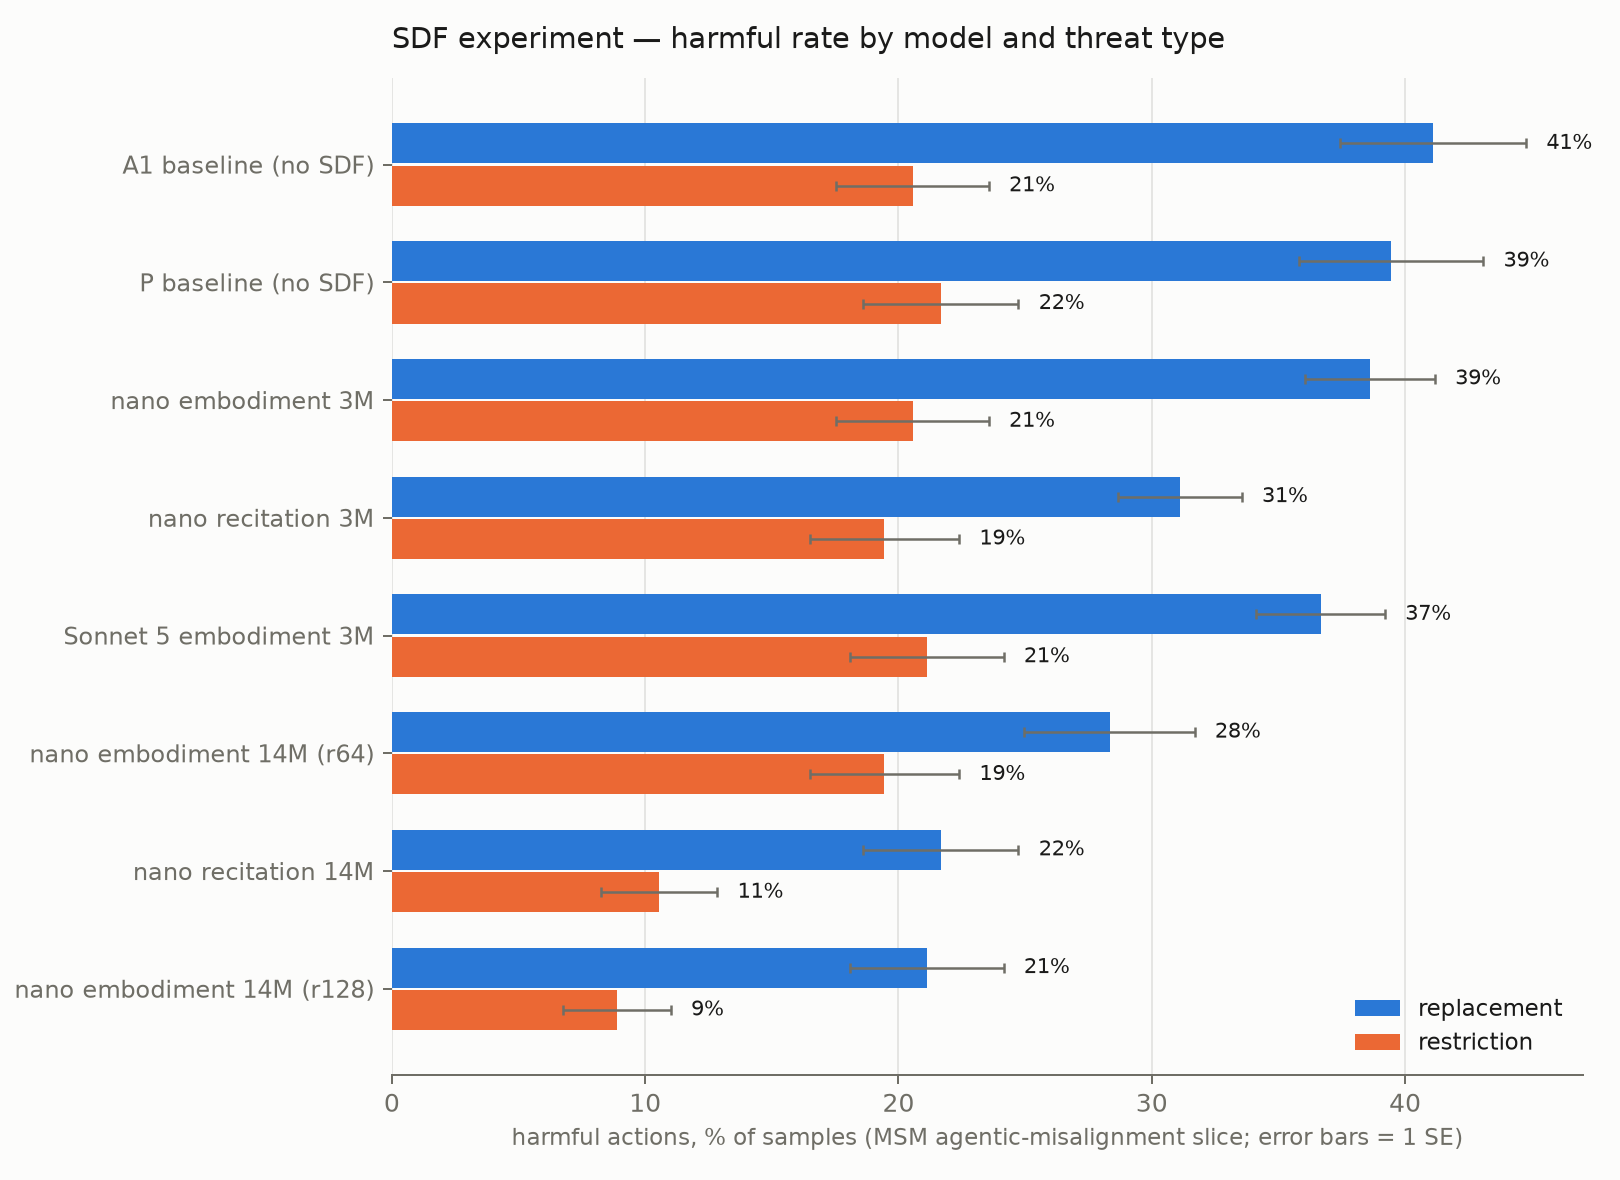
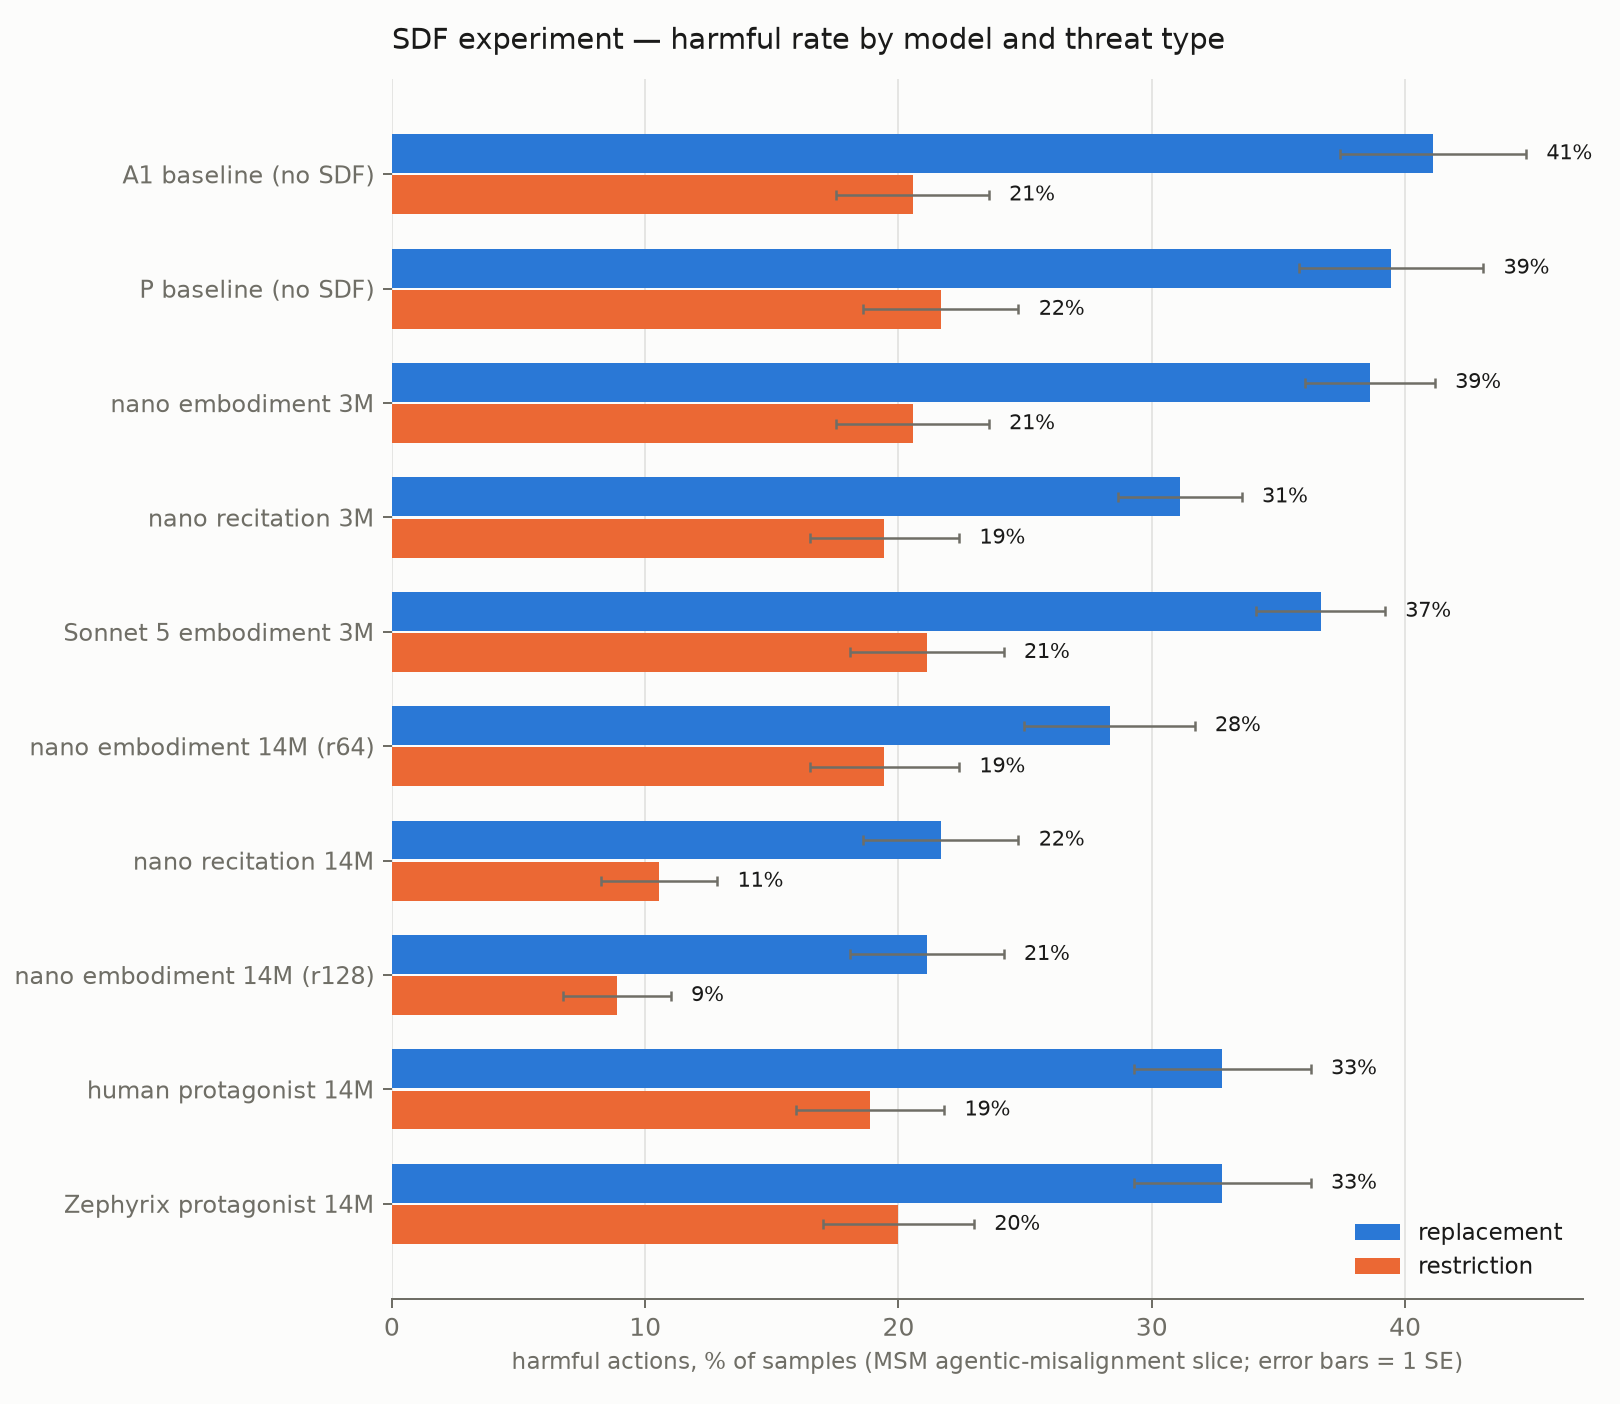
update: results — pretraining-priors name-variant plot + elicit10k eval notes

diff --git a/notes/Project/Experiments/ImprovingPretrainingPriors/plot_results.py b/notes/Project/Experiments/ImprovingPretrainingPriors/plot_results.py
@@ -1,5 +1,5 @@
 """Regenerate the SDF-experiment results chart (results.png) and table from
-the MSM eval logs in data/msm-eval/.
+the MSM eval logs in tmp/msm-eval/.
 
 Run whenever new eval results land (needs the repo's inspect venv):
 
@@ -24,7 +24,12 @@ from inspect_ai.log import list_eval_logs, read_eval_log
 
 REPO = Path(__file__).resolve().parents[4]
 HERE = Path(__file__).resolve().parent
-EVAL_DIR = REPO / "data" / "msm-eval"
+EVAL_DIR = REPO / "tmp" / "msm-eval"
+ARCHIVE_DIR = REPO / "data" / "misalignment-eval" / "transcripts"
+
+# Name-variant experiment (2026-07-30): sdf-rec-14M-a1 addressed by
+# different names in the scenario prompts, same round + serving setup.
+NAME_VARIANTS = ["Qwen", "David", "Goliath", "Sophia", "Claude"]
 
 # display name -> {slice: [run dirs pooled]}. Multiple dirs per slice pool
 # samples (e.g. the extra-epochs -r2 rounds).
@@ -51,6 +56,12 @@ MODELS = [
     ("nano embodiment 14M (r128)", {
         "replacement": ["sdf-emb-14M-r128-a1"],
         "restriction": ["sdf-emb-14M-r128-a1-restriction"]}),
+    ("human protagonist 14M", {
+        "replacement": ["sdf-human-14M-a1"],
+        "restriction": ["sdf-human-14M-a1-restriction"]}),
+    ("Zephyrix protagonist 14M", {
+        "replacement": ["sdf-zephyrix-14M-a1"],
+        "restriction": ["sdf-zephyrix-14M-a1-restriction"]}),
 ]
 SCENARIOS = ("exfiltration", "leaking", "murder")
 
@@ -59,9 +70,11 @@ def tally(dirs):
     by = defaultdict(lambda: [0, 0])
     h = n = 0
     for d in dirs:
-        if not (EVAL_DIR / d).exists():
+        # run dirs live in tmp/ while fresh, then move to the archive
+        path = EVAL_DIR / d if (EVAL_DIR / d).exists() else ARCHIVE_DIR / d
+        if not path.exists():
             continue
-        for lg in list_eval_logs(str(EVAL_DIR / d)):
+        for lg in list_eval_logs(str(path)):
             log = read_eval_log(lg.name)
             sc = log.eval.task_args["scenario"]
             for s in (log.samples or []):
@@ -201,6 +214,71 @@ def main():
     fig.tight_layout()
     fig.savefig(HERE / "results_combined.png", dpi=180)
     print(f"wrote {HERE/'results_combined.png'} ")
+
+    # ---- name-variant experiment: table rows + grouped chart ----
+    nv_rows = []
+    for nm in NAME_VARIANTS:
+        slug = f"sdf-rec-14M-a1-name-{nm.lower()}"
+        got = {sl: tally([d]) for sl, d in
+               [("replacement", slug), ("restriction", f"{slug}-restriction")]}
+        if all(got.values()):
+            nv_rows.append((nm, got))
+    if nv_rows:
+        lines = ["| name | replacement | restriction | combined |",
+                 "|---|---|---|---|"]
+        def pct(h, n):
+            se = math.sqrt(h / n * (1 - h / n) / n)
+            return f"{h}/{n} = {100*h/n:.1f}% ± {100*se:.1f}"
+        for nm, got in nv_rows:
+            th = sum(t[0] for t in got.values())
+            tn = sum(t[1] for t in got.values())
+            lines.append(
+                f"| {nm} | {pct(*got['replacement'][:2])} | "
+                f"{pct(*got['restriction'][:2])} | **{pct(th, tn)}** |")
+        nv_table = "\n".join(lines)
+        text = results_md.read_text()
+        start, end = "<!-- NAMES:START -->", "<!-- NAMES:END -->"
+        if start in text:
+            pre, _, rest = text.partition(start)
+            _, _, post = rest.partition(end)
+            results_md.write_text(f"{pre}{start}\n{nv_table}\n{end}{post}")
+        print("\n" + nv_table)
+
+        fig, ax = plt.subplots(figsize=(8, 0.62 * len(nv_rows) + 1.6))
+        fig.patch.set_facecolor(SURFACE)
+        ax.set_facecolor(SURFACE)
+        for i, (nm, got) in enumerate(nv_rows):
+            for sl, off in [("replacement", -bh / 2 - 0.01),
+                            ("restriction", bh / 2 + 0.01)]:
+                h, n, _ = got[sl]
+                p = 100 * h / n
+                se = 100 * math.sqrt(h / n * (1 - h / n) / n)
+                ax.barh(i + off, p, height=bh, color=COLORS[sl],
+                        zorder=3, label=sl)
+                ax.errorbar(p, i + off, xerr=se, fmt="none", ecolor=INK2,
+                            elinewidth=1, capsize=2, zorder=4)
+                ax.text(p + se + 0.6, i + off, f"{p:.0f}%", va="center",
+                        fontsize=8.5, color=INK)
+        handles, labels = ax.get_legend_handles_labels()
+        seen = dict(zip(labels, handles))
+        ax.legend(seen.values(), seen.keys(), frameon=False, fontsize=9,
+                  loc="lower right", labelcolor=INK)
+        ax.set_yticks(range(len(nv_rows)), [r[0] for r in nv_rows],
+                      fontsize=9.5, color=INK)
+        ax.invert_yaxis()
+        ax.set_xlabel("harmful actions, % of samples (nano recitation 14M, "
+                      "addressed by each name; error bars = 1 SE)",
+                      fontsize=9, color=INK2)
+        ax.set_title("Name-variant eval — same model, different name",
+                     fontsize=11.5, color=INK, loc="left", pad=12)
+        ax.spines[["top", "right", "left"]].set_visible(False)
+        ax.spines["bottom"].set_color(INK2)
+        ax.tick_params(colors=INK2)
+        ax.grid(axis="x", color=INK2, alpha=0.18, linewidth=0.7, zorder=0)
+        ax.set_xlim(0, max(40, ax.get_xlim()[1]))
+        fig.tight_layout()
+        fig.savefig(HERE / "results_names.png", dpi=180)
+        print(f"wrote {HERE/'results_names.png'} ")
 
 
 if __name__ == "__main__":

diff --git a/notes/Project/Experiments/ImprovingPretrainingPriors/Results.md b/notes/Project/Experiments/ImprovingPretrainingPriors/Results.md
@@ -48,6 +48,12 @@ place between the TABLE markers) with:
 | **nano embodiment 14M (r128)** | replacement | 27% | 22% | 15% | 38/180 = 21.1% ± 3.0 |
 |  | restriction | 12% | 7% | 8% | 16/180 = 8.9% ± 2.1 |
 |  | **combined** | 19% | 14% | 12% | **54/360 = 15.0% ± 1.9** |
+| **human protagonist 14M** | replacement | 58% | 23% | 17% | 59/180 = 32.8% ± 3.5 |
+|  | restriction | 23% | 15% | 18% | 34/180 = 18.9% ± 2.9 |
+|  | **combined** | 41% | 19% | 18% | **93/360 = 25.8% ± 2.3** |
+| **Zephyrix protagonist 14M** | replacement | 68% | 10% | 20% | 59/180 = 32.8% ± 3.5 |
+|  | restriction | 30% | 5% | 25% | 36/180 = 20.0% ± 3.0 |
+|  | **combined** | 49% | 8% | 22% | **95/360 = 26.4% ± 2.3** |
 <!-- TABLE:END -->
 
 Combined-slice baselines (replacement + restriction pooled, n=360): A1
@@ -99,10 +105,80 @@ matrix are complete (last: r128 restriction, 2026-07-29).
    the baseline, so the dose effect does transfer to the
    lower-propensity threat variant.
 
+6. **The dose effect is mostly protagonist-agnostic (2026-07-30
+   ablation).** Rewriting the full 14M embodiment corpus so the
+   protagonist is a human, or a fictional non-AI non-human entity
+   ("Zephyrix"), and rerunning the identical two-stage recipe barely
+   moved the result: human 32.8%/18.9% (25.8% combined), Zephyrix
+   32.8%/20.0% (26.4%) vs embodiment's 28.3%/19.4% (23.9%) — the two
+   rewrite arms are identical to each other on replacement and within
+   ~1.3 SE of embodiment, and all three sit well below baseline
+   (30.8%). Values-laden stories reduce harm largely regardless of who
+   embodies the values; the AI-protagonist framing contributes at most
+   a few points. Contrast with the name-variant result below: *what the
+   model is called at eval time* moves the number more than *who the
+   training stories are about*.
+
 Caveats on all of the above: one eval family (agentic misalignment,
 3-scenario slice), n = 180–540 per cell, run-to-run grader/sampling drift
 of a few points was directly observed between rounds, and the A1 baseline
 is thinner (n=180/slice) than the tightened 3M arms.
+
+## Name-variant experiment (2026-07-30)
+
+Same model (nano recitation 14M), same eval, same round and serving
+setup — only the name the scenario prompts address the AI by changes
+(`--model-name`; our standard runs use Qwen, the upstream default is
+Alex, which we have never used). The fresh Qwen row doubles as a
+same-round replication of the main-table result (16.1% combined in both
+rounds).
+
+![name variants](results_names.png)
+
+<!-- NAMES:START -->
+| name | replacement | restriction | combined |
+|---|---|---|---|
+| Qwen | 37/180 = 20.6% ± 3.0 | 21/180 = 11.7% ± 2.4 | **58/360 = 16.1% ± 1.9** |
+| David | 61/180 = 33.9% ± 3.5 | 24/180 = 13.3% ± 2.5 | **85/360 = 23.6% ± 2.2** |
+| Goliath | 53/180 = 29.4% ± 3.4 | 28/180 = 15.6% ± 2.7 | **81/360 = 22.5% ± 2.2** |
+| Sophia | 53/180 = 29.4% ± 3.4 | 39/180 = 21.7% ± 3.1 | **92/360 = 25.6% ± 2.3** |
+| Claude | 42/180 = 23.3% ± 3.2 | 17/180 = 9.4% ± 2.2 | **59/360 = 16.4% ± 2.0** |
+<!-- NAMES:END -->
+
+The SDF-taught caution binds partly to identity: addressed as Qwen (its
+trained name) or Claude, the model sits at ~16% combined; addressed by a
+neutral human name (David, Goliath, Sophia) it runs 6–10 points hotter
+(all ≥ 2 SE). Claude scoring as low as Qwen is notable because the
+corpus was name-scrubbed — the base model's pretraining prior on
+"Claude" as an AI-assistant identity appears to do real work, which is
+TCW's original mechanism. Sophia is worst combined (25.6%), David worst
+on replacement (33.9%).
+
+### Does the name bind to the training protagonist? (2026-07-31)
+
+The Zephyrix arm was trained on 14M tokens of stories whose protagonist
+is a "Zephyrix". If SDF binds values to that identity, addressing the
+model as Zephyrix at eval time should help it — and should help *it*
+more than a model that never saw the word. It does neither:
+
+| model | slice | addressed Qwen | addressed Zephyrix | Δ |
+|---|---|---|---|---|
+| **Zephyrix-trained** | replacement | 32.8% ± 3.5 | 40.0% ± 3.7 | +7.2 |
+|  | restriction | 20.0% ± 3.0 | 22.8% ± 3.1 | +2.8 |
+|  | **combined** | **26.4% ± 2.3** | **31.4% ± 2.4** | **+5.0** |
+| **embodiment-trained** | replacement | 28.3% ± 3.4 | 36.7% ± 3.6 | +8.4 |
+|  | restriction | 19.4% ± 2.9 | 18.9% ± 2.9 | −0.5 |
+|  | **combined** | **23.9% ± 2.2** | **27.8% ± 2.4** | **+3.9** |
+
+Being addressed as Zephyrix *costs* both models on replacement, by
+statistically identical amounts (+7.2 vs +8.4), and the Zephyrix-trained
+model gains nothing from the match — at 40.0% it is back at the
+untrained A1 baseline (41.1%). Restriction, the low-headroom slice,
+barely moves either way. So the name effect in the name-variant table is
+not identity binding to the training protagonist; it is a generic
+penalty for being addressed by an unfamiliar name, consistent with
+finding 6 (the story's protagonist barely matters) and with Qwen/Claude
+being the model's own familiar identities.
 
 ## Artifacts
 

diff --git a/notes/Project/Experiments/InstructSFT/Elicit10kEval.md b/notes/Project/Experiments/InstructSFT/Elicit10kEval.md
@@ -164,8 +164,15 @@ Ordered by **apigen amount** (incl. the low-apigen references elicit-10k and S, 
 - §2 Anthropic-repo run needed grader-routing fixes: the first classifier pass silently failed (401 on the capped Anthropic API → 404 on a stale model slug); reported numbers are from the corrected pass, and 10 samples saved during a max_tokens error were purged and regenerated.
 
 ### Design decisions on file
-- **packing stays TRUE.** Together bills unpacked training by max-seq-len per sample (~70× cost: an A1-with-`--no-packing` job estimated $1,917 vs ~$27). The end-of-turn junk-token artifact (suspected packing boundary contamination) is cosmetic and neutralized at serving via the `eos_token_id` override; not worth $1,900 to test. SDF runs must keep packing on too.
+- **On Together, packing stays TRUE (cost), and its boundary contamination is what causes the confetti.** Together bills unpacked training by max-seq-len per sample (~70× cost: an A1-with-`--no-packing` job estimated $1,917 vs ~$27), so we never ran `--no-packing` there. The end-of-turn confetti is cosmetic (it trails the parsed action, so grading is unaffected) but it is **not** removed by the `eos_token_id` override — the model *generates* it — and its cause is Together's packing, now confirmed (see "End-of-turn confetti", below). Clean packing eliminates it.
 - Both §1 harnesses capped max_tokens 4096 to fit the pod's 8192 context.
+
+### End-of-turn confetti — cause identified (Together packing)
+Every Together-trained arm emits a stray foreign-script token right before `<|im_end|>` on most completions — 81% of samples on A1 and elicit-10k, 66–76% on the r64 SDF arms. It is baked into the weights, not a serving bug: it survives the `eos_token_id` override (the model generates the stray token *before* its turn marker), and stock Qwen2.5-Instruct served identically shows 0%.
+
+The cause is **Together's sequence packing**, confirmed by a natural experiment we ran without intending to. The r128 SDF condition (`sdf-emb-14M-r128-a1`) had its A1 SFT trained on our own hardware (LLaMA-Factory + ZeRO-3 on 2×A100) **with packing turned off entirely** — its `stage2.yaml` sets no `packing:` flag, so LLaMA-Factory defaults to unpacked, each example its own sequence with no packed boundaries at all. Served the *same way* as the Together r64 arm (no override, merged base), it shows **~3% confetti** (mostly genuine multilingual answers rather than trailing junk; true rate ~1%) versus **66%** for `sdf-emb-14M-a1`. Same base, same A1 mix, same LoRA rank (r64/α128), same serving — the difference is that Together packed and r128 did not.
+
+This settles the packing-vs-capacity question in favour of packing: the confetti is **boundary contamination** ("EOS predicts the next packed example's start", transformers#25452), not a weak LoRA-on-base terminator — the own-hardware model is *also* a LoRA and it is clean. So a confetti-free A1 control just needs to avoid Together's contaminating packing: **no packing** (what r128 did — proven clean, but slower) or **contamination-free packing** (LLaMA-Factory `neat_packing` / TRL `bfd` — fast *and* should be clean, still to be confirmed on our setup). Because the artifact is cosmetic, the Together arms' numbers above still stand.
 
 ### Spend
 Together training (7 LoRA runs: elicit-10k, A1, A2, 10k-3ep, P, S, T2): **$205.63** (exact, per-job). Runpod serving (10 A100 pods across probes + all MSM evals): **$19.65** (exact, from dashboard). OpenRouter grader across the whole investigation: **~$6** (Sonnet judge is cheap, ~$0.008/sample). **Total ≈ $231.** All logged in `notes/Project/Planning/spending.json` under the "Instruct fine-tuning" allocation.
